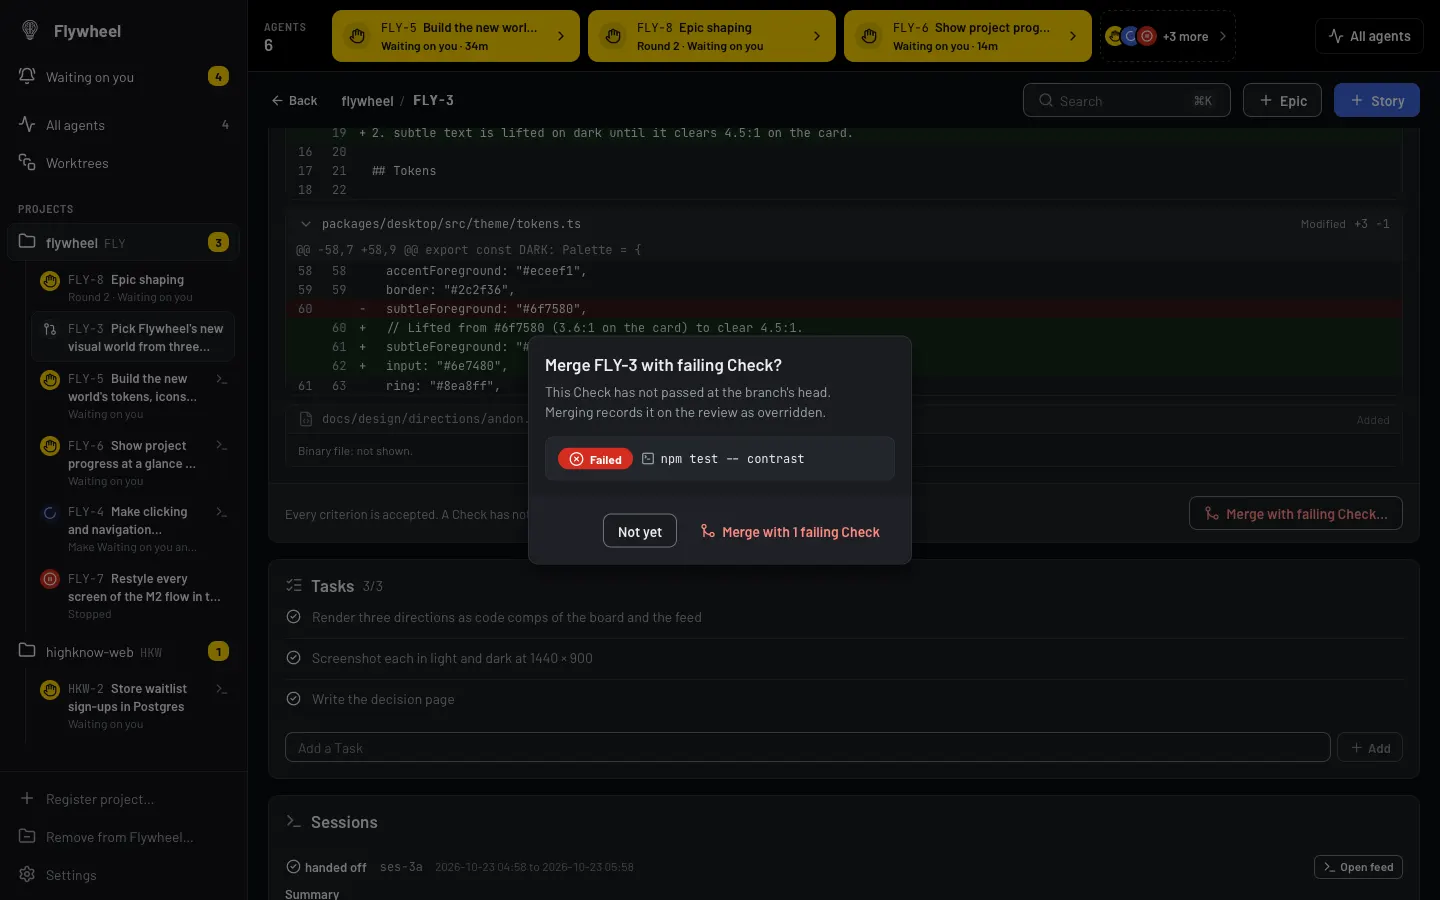
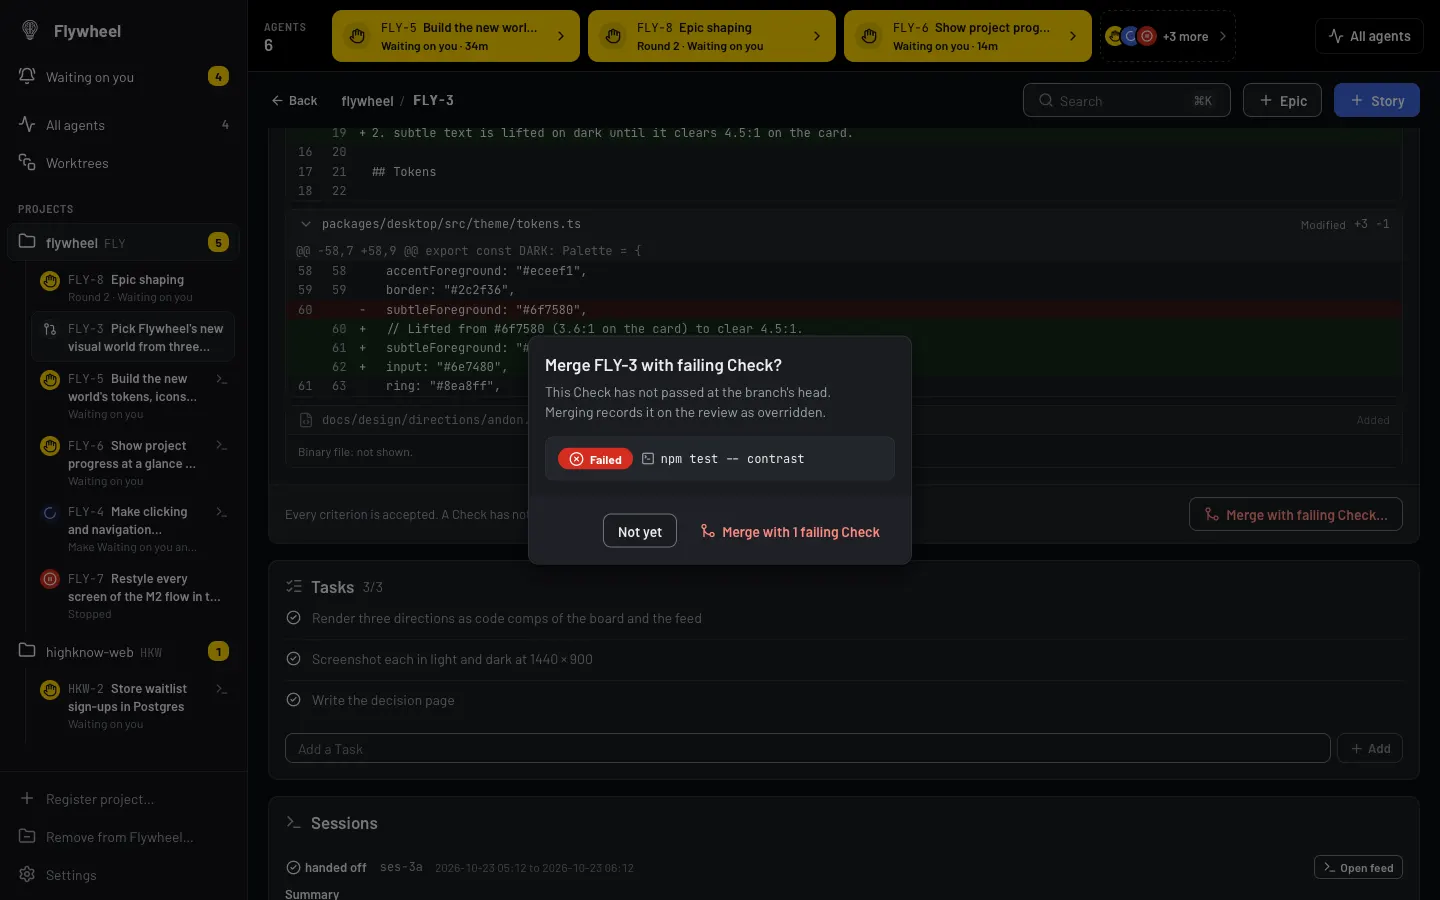
docs: critique screens re-shot on main with Needs you; the fixture hands FLY-3 off with one Task open for screen 87

diff --git a/packages/desktop/src/test/critique/m2-fixture.ts b/packages/desktop/src/test/critique/m2-fixture.ts
@@ -851,8 +851,16 @@ function window_(entries: Record<string, unknown>[], offset: number, limit: numb
  * conflicts with main in two files, so it reads Rebase needed.
  */
 let reviewMode: "judging" | "override" | "ready" | "decisions" | "rebase" = "judging";
-export function setReviewInFixture(mode: "judging" | "override" | "ready" | "decisions" | "rebase"): void {
+/** Issue #157: FLY-3 handed off with its last Task still open, so the review card warns "1 Task not done". */
+let reviewTaskOpen = false;
+export function setReviewInFixture(mode: "judging" | "override" | "ready" | "decisions" | "rebase", { taskOpen = false } = {}): void {
   reviewMode = mode;
+  reviewTaskOpen = taskOpen;
+}
+
+function tasksOf(storyId: string): TaskDto[] {
+  const tasks = TASKS[storyId] ?? [];
+  return reviewTaskOpen && storyId === "s-3" ? tasks.map((t) => (t.id === "t-3c" ? { ...t, state: "open" } : t)) : tasks;
 }
 
 const REVIEW_DECISIONS: DecisionChangeDto[] = [
@@ -990,14 +998,14 @@ function reviewOf(storyId: string): StoryReviewDto {
     headSha: "9f3c2ab",
     review: {
       id: "r-3", openedAt: ago(3000), baseSha: "41d07e2", headSha: "9f3c2ab",
-      files: 3, added: 9, removed: 3, openTasks: 1, checkObjections: [], adrNotes: [],
+      files: 3, added: 9, removed: 3, openTasks: reviewTaskOpen ? 1 : 0, checkObjections: [], adrNotes: [],
     },
     criteria: [
       { id: "c-3a", statement: "Each of the three directions is rendered from code over the M3 backlog, light and dark", accepted, acceptedAt: accepted ? ago(60) : null, preTicked: true, check: renders },
       { id: "c-3b", statement: "Every text role measures at least 4.5:1 in both schemes", accepted: true, acceptedAt: ago(120), preTicked: ready, check: contrast },
       { id: "c-3c", statement: "The pick and its two changes are recorded in direction.md", accepted, acceptedAt: accepted ? ago(30) : null, preTicked: false, check: null },
     ],
-    openTasks: ready ? 0 : 1,
+    openTasks: reviewTaskOpen ? 1 : 0,
     failingChecks: ready ? [] : [contrast],
     liveSession: false,
     uncommitted: [],
@@ -1082,7 +1090,7 @@ export function answer(cmd: string, args: Args): unknown {
     }
     case "story_stopped":
       return arg(args, "storyId") === "s-7" ? { sessionId: "ses-7b", endingReason: "usage_limit", endedAt: ago(4200) } : null;
-    case "task_list": return TASKS[arg(args, "storyId")] ?? [];
+    case "task_list": return tasksOf(arg(args, "storyId"));
     case "sessions_for_story": return RUNS[arg(args, "storyId")] ?? [];
     case "session_get": return Object.values(RUNS).flat().find((r) => r.id === arg(args, "sessionId")) ?? null;
     case "story_session_summaries": return SUMMARIES[arg(args, "storyId")] ?? [];

diff --git a/packages/desktop/src/test/critique/m2-flow.critique.browser.test.tsx b/packages/desktop/src/test/critique/m2-flow.critique.browser.test.tsx
@@ -856,22 +856,23 @@ describe.runIf(Boolean(SCHEME))("M2 flow screens", () => {
     }
   });
 
-  it("79 review card: the warnings and each changed file's diff (issue #157)", async () => {
+  it("87 review card: the warnings and each changed file's diff (issue #157)", async () => {
+    setReviewInFixture("judging", { taskOpen: true });
     await boardReady();
     await click("Open review of FLY-3");
     const files = await screen.findByRole("region", { name: "3 changed files" });
     await screen.findByRole("group", { name: "Diff of packages/desktop/src/theme/tokens.ts" });
     (await screen.findByRole("region", { name: "Warnings" })).scrollIntoView({ block: "start" });
     expect(files).toBeTruthy();
-    await shot("79-review-card-files");
+    await shot("87-review-card-files");
   });
 
-  it("80 review card: Re-run Checks says what the run recorded (issue #157)", async () => {
+  it("88 review card: Re-run Checks says what the run recorded (issue #157)", async () => {
     await boardReady();
     await click("Open review of FLY-3");
     await click("Re-run Checks");
     await screen.findByText("Ran 2 Checks at 9f3c2ab: 1 passed, 1 failed.");
-    await shot("80-review-card-rerun-checks");
+    await shot("88-review-card-rerun-checks");
   });
 
   it("74 board: an In review Story's row offers Open review (issue #155)", async () => {
